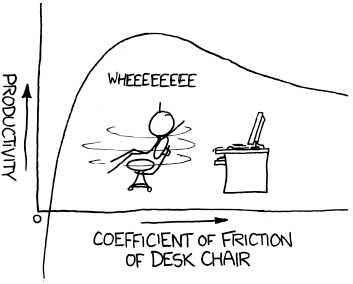
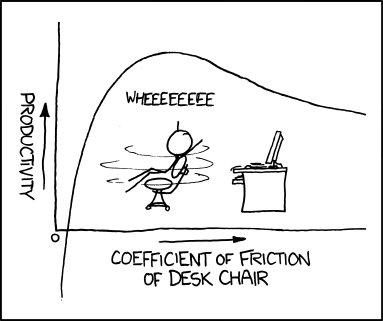
commit

Changed region(s): [[0.0, 0.0, 1.0, 1.0], [0.0935, 0.9014, 0.1246, 0.9577]]

diff --git a/_layouts/about.html b/_layouts/about.html
@@ -165,6 +165,12 @@ layout: default
             <p>
               Outside of research, one of my typical pastime is consuming a healthy amount of manga/anime; currently I am reading/watching <a href='https://myanimelist.net/anime/33352/Violet_Evergarden'><i>Violet Evergarden</i></a> and <a href='https://myanimelist.net/manga/4632/Oyasumi_Punpun'><i>Goodnight Punpun</i></a>.
             </p>
+
+            <img src="assets/img/mu.png" alt="Description of image" style="max-width: 100%; height: auto; display: block; margin-top: 1em;">
+
+            <div style="text-align: center; margin-top: 0.5em;">
+              <tt>Fig. 2. xkcd: <a href='https://xkcd.com/815/'>Mu</a></tt>
+            </div>
           </div>
         </article>
 </div>
